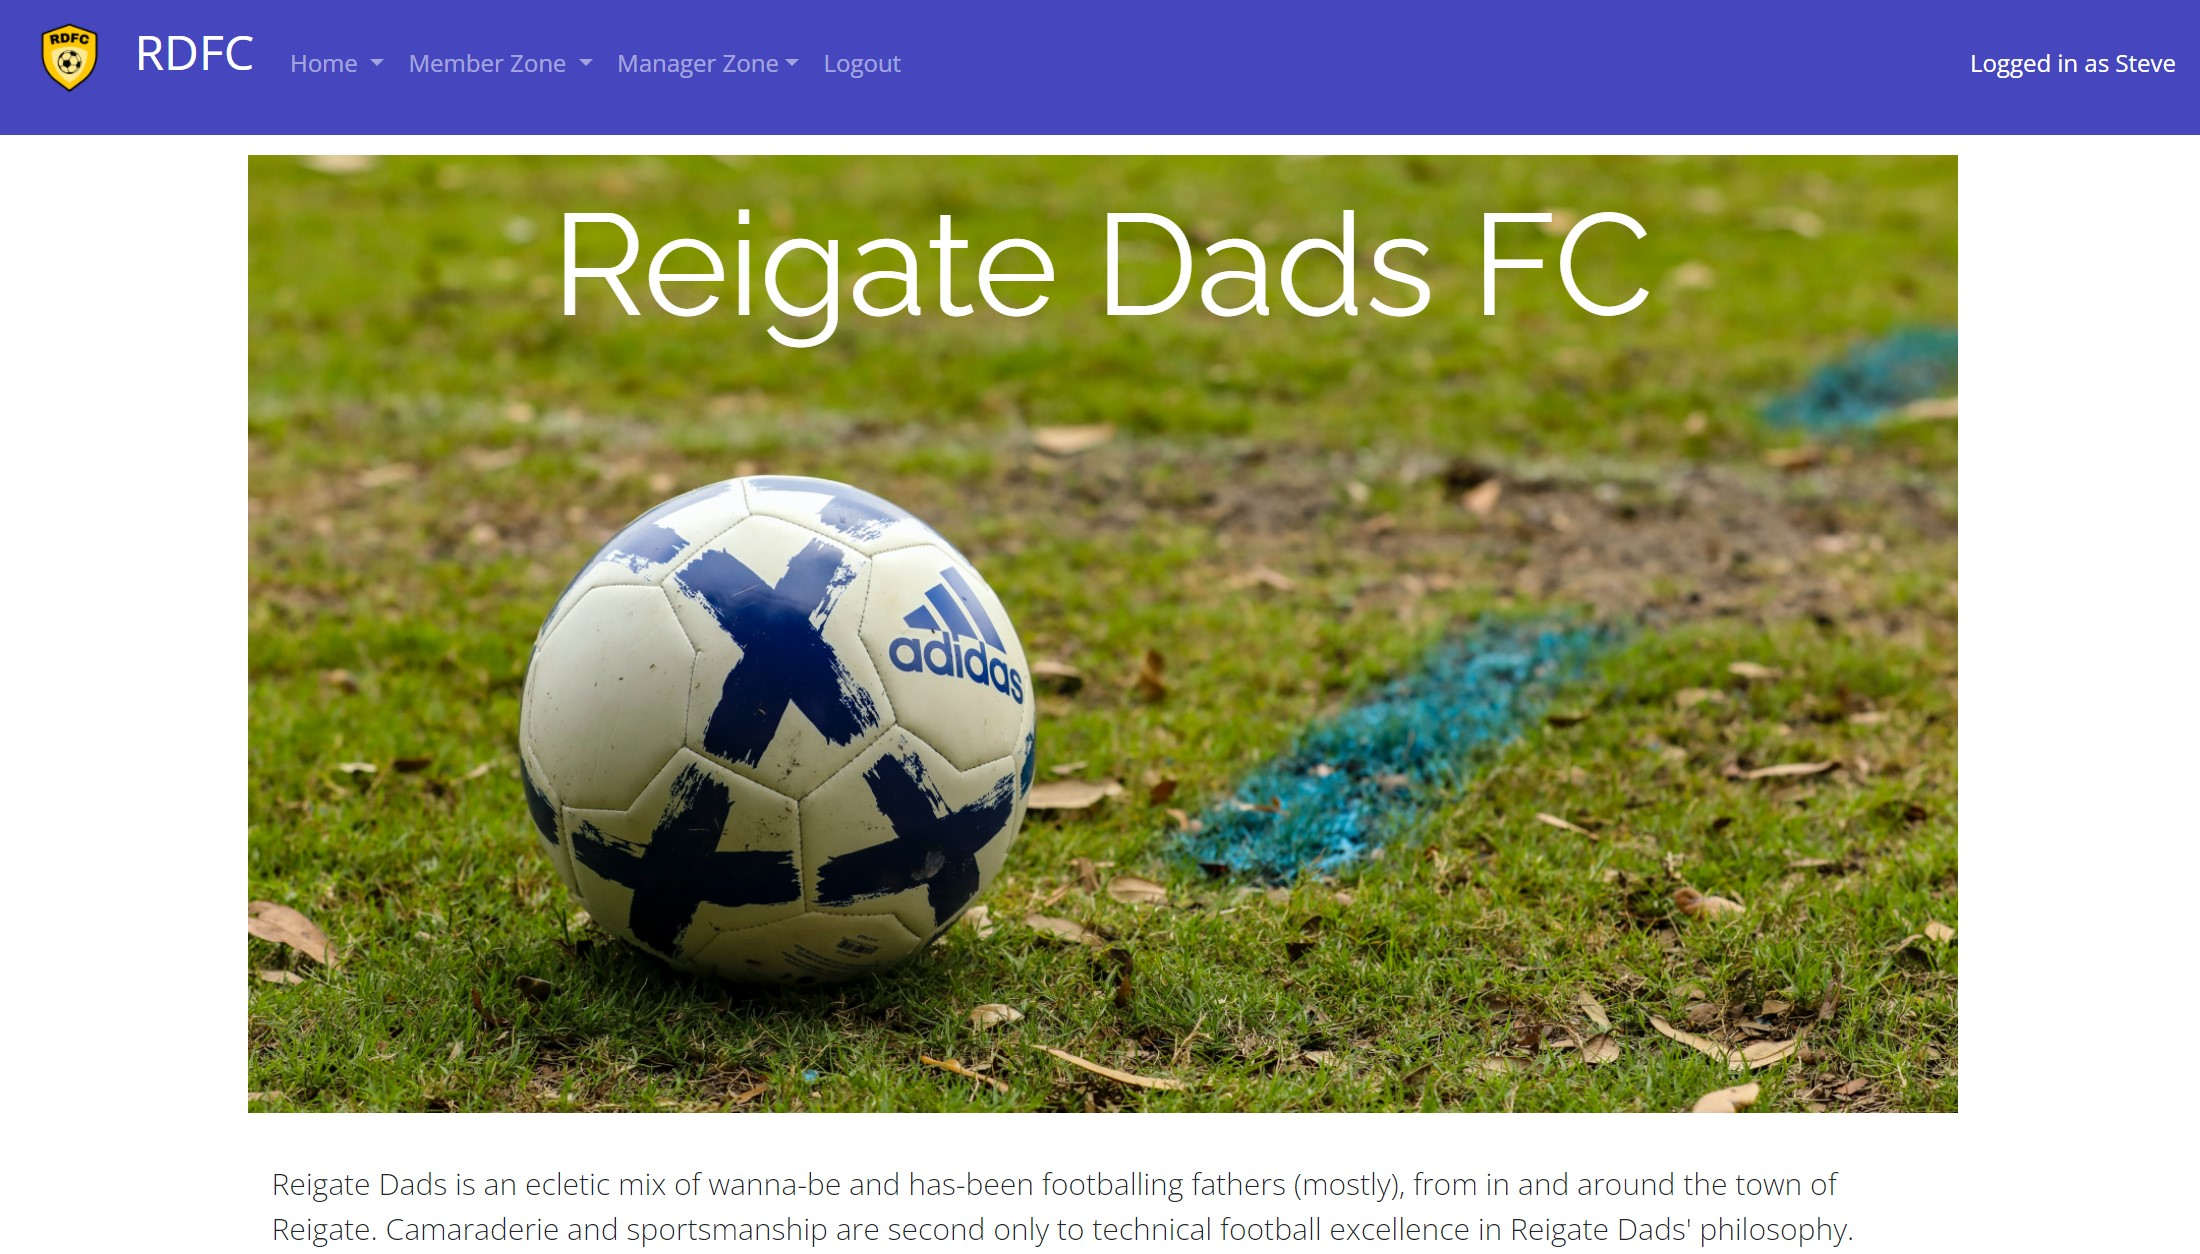
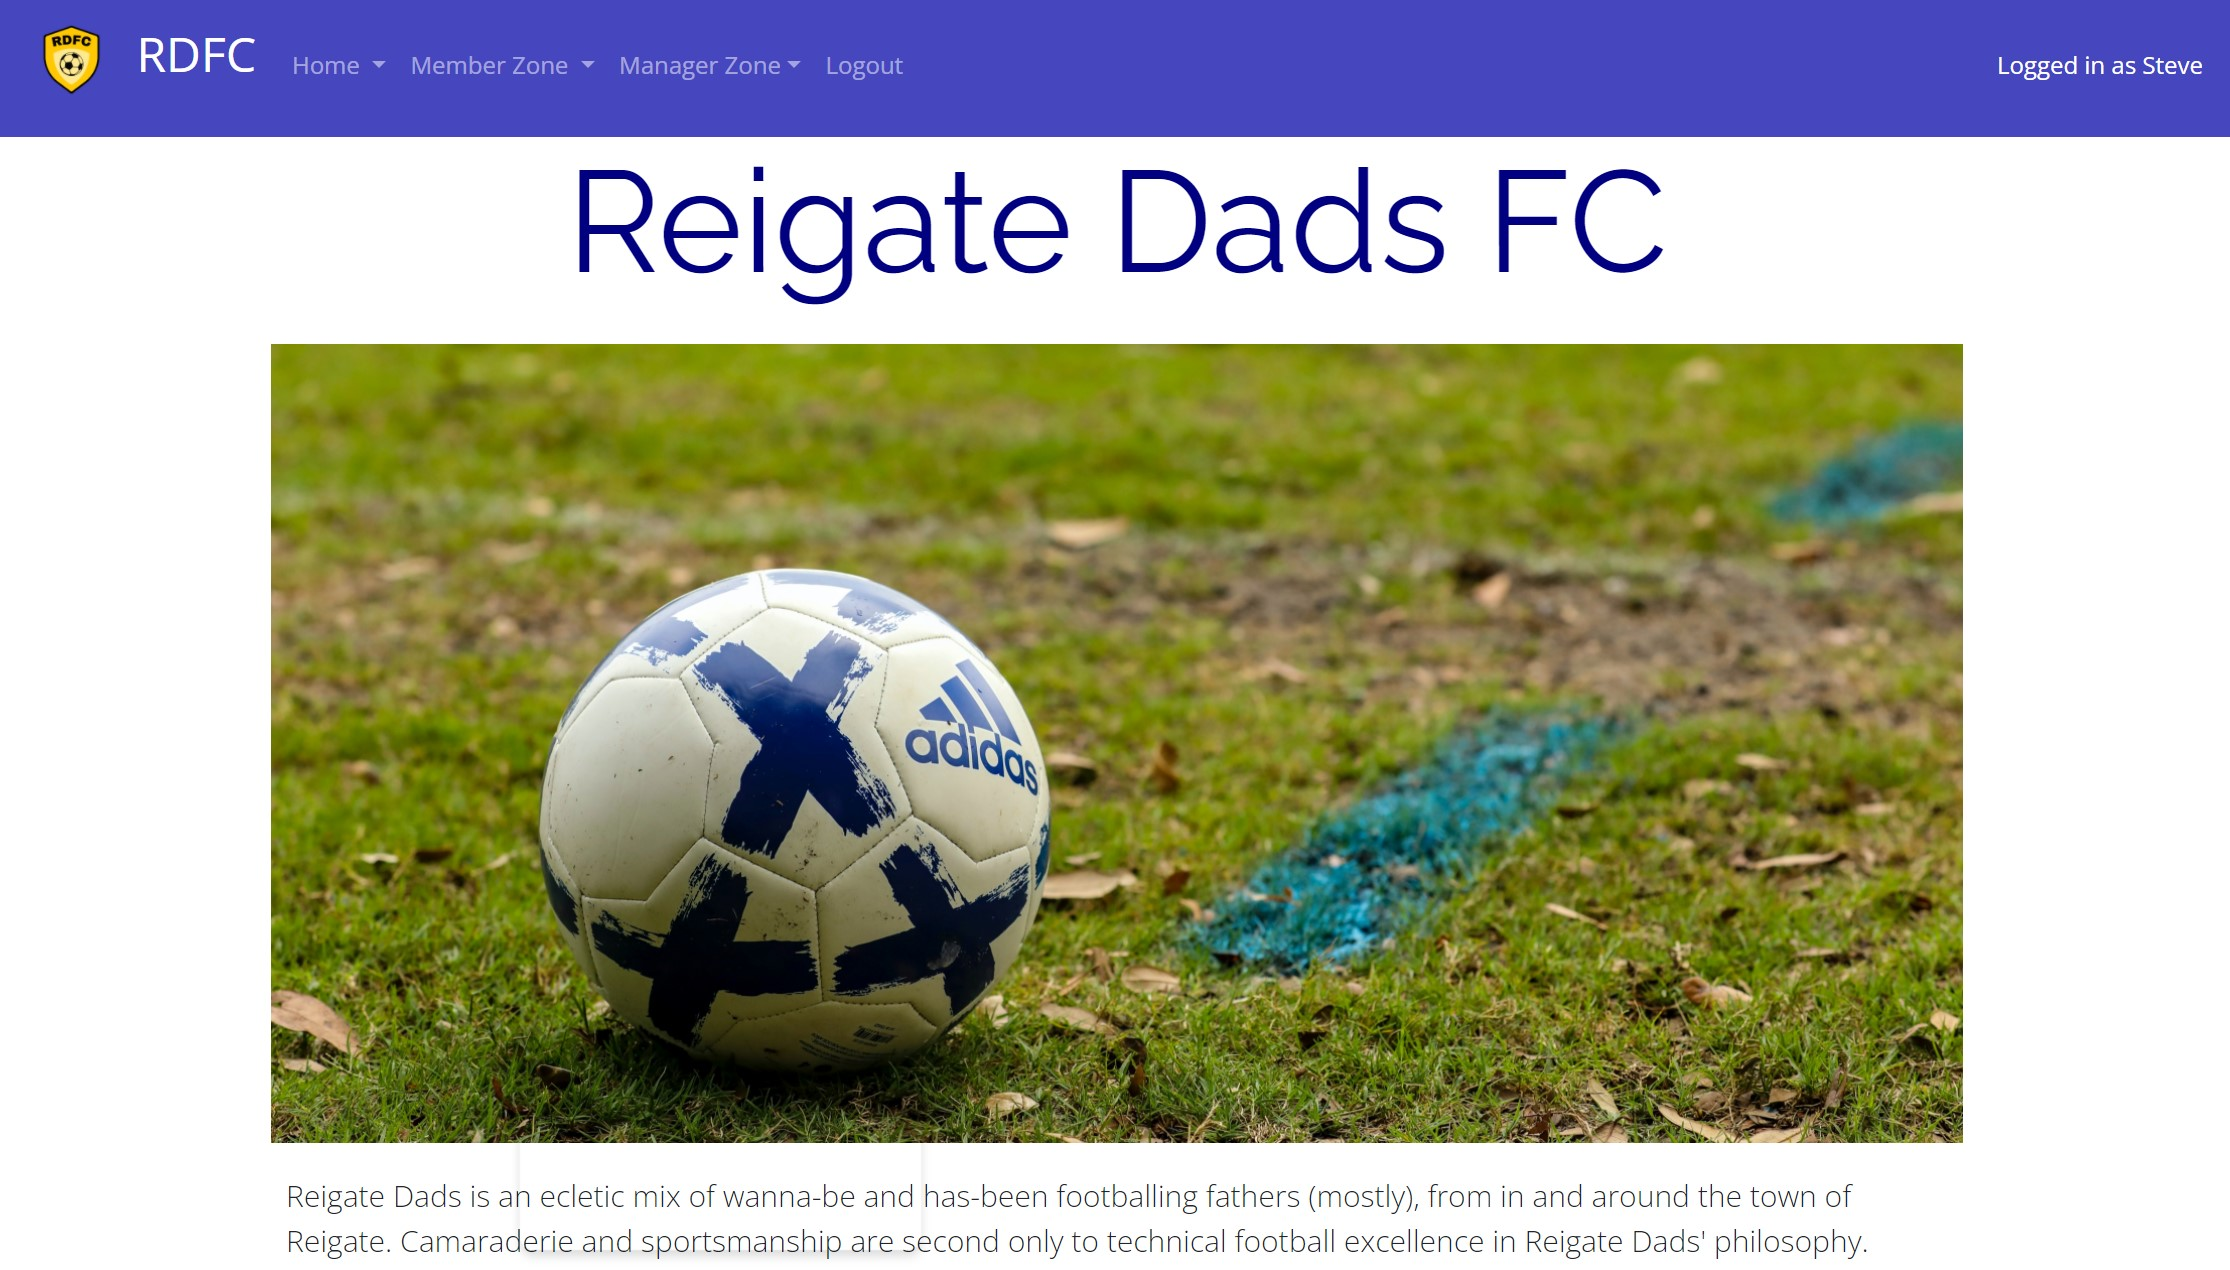
format main heading and image. update screenshots in README.

diff --git a/club/templates/club/index.html b/club/templates/club/index.html
@@ -12,13 +12,14 @@ Home
 {% endblock %}
 
 {% block content %}
-<div class="container-fluid mb-md-3 mt-md-2">
+<div class="container-fluid mb-md-3">
+    <h1 class="display-1 text-center font-weight-normal" id="main-heading">Reigate Dads FC</h1>
     <div id="main-img-container" class="container mt-md-4 mx-auto">
-        <img src="{% static 'club/images/football.jpg' %}" class="mobile-hide mx-auto" alt="football on a playing field" id="main-img">
-        <img src="{% static 'club/images/football-cropped.jpg' %}" class="mobile-only" alt="football on a playing field" id="main-cropped">        
-        <h1 class="display-1 text-center font-weight-normal text-white pt-3" id="main-heading">Reigate Dads FC</h1>
+        <img src="{% static 'club/images/football1.jpg' %}" class="mobile-hide mx-auto" alt="football on a playing field" id="main-img">
+        <img src="{% static 'club/images/football-cropped1.jpg' %}" class="mobile-only" alt="football on a playing field" id="main-cropped">        
+
     </div>
-    <div class="container mt-md-3 p-3" id="club-intro-text">
+    <div class="container mt-md-1 p-3" id="club-intro-text">
         <p class="lead">Reigate Dads is an ecletic mix of wanna-be and has-been footballing fathers (mostly), from in and around the town of Reigate. Camaraderie and sportsmanship are second only to technical football excellence in Reigate Dads' philosophy. </p>
         <p class="homepage-text">Inaugurated in September 2016, Reigate Dads play on Thursday evenings at the five-a-side astro-turf stadium at South Park Football Club, Whitehall Lane, RH2 8LG. Reigate Dads play against each other within a league, whose triannual season culminates in the award of a highly prized crystal trophy, often referred to as 'The Perspex Block'. The cornerstone of the competition is 'The Algorithm', a sophisticated function that optimises weekly team selection balance, based on a swathe of player statistics.</p>
     </div>   

diff --git a/templates/base.html b/templates/base.html
@@ -7,7 +7,7 @@
   <meta http-equiv="X-UA-Compatible" content="IE=edge">
   <meta name="viewport" content="width=device-width, initial-scale=1.0">
   <link rel="stylesheet" href="https://stackpath.bootstrapcdn.com/bootstrap/4.1.3/css/bootstrap.min.css" integrity="sha384-MCw98/SFnGE8fJT3GXwEOngsV7Zt27NXFoaoApmYm81iuXoPkFOJwJ8ERdknLPMO" crossorigin="anonymous">
-  <link rel="stylesheet" href="{% static 'base.css' %}">
+  <link rel="stylesheet" href="{% static 'club/css/base.css' %}">
   <link rel="apple-touch-icon" sizes="180x180" href="{% static 'images/apple-touch-icon.png' %}">
   <link rel="icon" type="image/png" sizes="32x32" href="{% static 'images/favicon-32x32.png' %}">
   <link rel="icon" type="image/png" sizes="16x16" href="{% static 'images/favicon-16x16.png' %}">
@@ -21,7 +21,7 @@
 </head>
 <body>
   <nav class="navbar sticky-top navbar-expand-lg navbar-dark">
-    <h2 id="navbar-logo" class="pr-3"><img src="{% static 'images/RDFC-logo.png' %}" id="logo-img"> RDFC </h2>
+    <h2 id="navbar-logo" class="pr-3"><img src="{% static 'images/RDFC-logo.png' %}" id="logo-img" alt="club logo"> RDFC </h2>
     <button class="navbar-toggler" type="button" data-toggle="collapse" data-target="#navbarSupportedContent" aria-controls="navbarSupportedContent" aria-expanded="false" aria-label="Toggle navigation">
       <span class="navbar-toggler-icon"></span>
     </button>      

diff --git a/club/static/club/css/index.css b/club/static/club/css/index.css
@@ -6,9 +6,7 @@
 }
 
 #main-img {
-    width: 80vw;
-    position: relative;
-    z-index: -1;
+    width: 75vw;
 }
 
 #main-cropped{
@@ -17,9 +15,7 @@
 
 #main-heading {
     font-family: 'Raleway', sans-serif;
-    position: absolute;
-    top: 10rem;
-    z-index: 1;
+    color: navy;
 }
 
 .homepage-text {
@@ -48,8 +44,7 @@ div #map {
 @media screen and (max-width: 600px) {
     
     #main-heading {
-        font-size: 70px;
-        top: 7rem;
+        font-size: 60px;
     }
 
     #main-cropped {

diff --git a/reigate_dads/settings.py b/reigate_dads/settings.py
@@ -30,7 +30,7 @@ SECRET_KEY = os.environ.get('SECRET_KEY')
 
 
 # SECURITY WARNING: don't run with debug turned on in production!
-DEBUG = True
+DEBUG = False
 
 ALLOWED_HOSTS = ["reigate-dads.herokuapp.com", "localhost"]
 

diff --git a/README.md b/README.md
@@ -128,6 +128,7 @@ When setting up the project I customised the admin display, filter and search fi
 ## User Authentication
 Django Allauth was installed to enable users to sign up, log in and log out.  I customised the standard Allauth model  
 so that users also need to enter their first and last name when signing up.  I copied the Allauth templates into a separate folder and used my own base.html file to extend them.  I also created a custom container for them so that they took up all the space on the screen that was not occupied by the header or footer.
+
 ![Sign Up Form](https://github.com/BelT26/RDFC/blob/main/club/static/club/screenshots/signup.jpg)
 
 ## Messages
@@ -138,18 +139,22 @@ I created a responsive navbar that collapses on mobile devices using Bootstrap c
 
 ### General User Access
 Visitors to the site can view general information about the club.  They also have the option of signing up to the club or logging in if they are a member.
+
 ![Site User Navbar](https://github.com/BelT26/RDFC/blob/main/club/static/club/screenshots/navbar-user.jpg)
 
 ### Member Access
 Once a user has logged in, their logged in status is displayed on the right of the navbar. Logged in users have access to the member zone in which they can book a place in the next match, view details of the next fixture, view past results and view the player league table. The signup option disappears and the login option is replaced with a logout option.
+
 ![Member Navbar](https://github.com/BelT26/RDFC/blob/main/club/static/club/screenshots/navbar-member.jpg)
 
 ### Manager Access
 As well as all of the member facilities, the manager has access to a dropdown management menu.  This offers options for him to add a new match fixture, update details of the existing matches and approve and remove members.
+
 ![Manager Navbar](https://github.com/BelT26/RDFC/blob/main/club/static/club/screenshots/navbar-manager.jpg)
 
 ## Footer
 The footer contains social media links to Facebook, Twitter and Instagram. The icons change from white to gold when the user hovers over them to indicate to the user that they are links. The club manager has not yet set up accounts with these sites so the links currently take the user to the home page. These links will be updated once the club's accounts have been created.
+
 ![Footer](https://github.com/BelT26/RDFC/blob/main/club/static/club/screenshots/footer.jpg)
 
 ## Home Page
@@ -157,16 +162,19 @@ The home page is split into three sections, accessible by a dropdown menu, a gen
 
 ### About
 The text provides a lighthearted introduction to the club for potential new members and was provided by Steve, the club manager. The main image is replaced with a cropped version on mobile devices.
+
 ![Club Intro](https://github.com/BelT26/RDFC/blob/main/club/static/club/screenshots/homepage.jpg)
 
 ### Social
 This section lets potential members know that the players like to socialialise together after the game. Eventually it will be moved to its own page and the manager will be able to add details of upcoming events.
+
 ![Social](https://github.com/BelT26/RDFC/blob/main/club/static/club/screenshots/social.jpg)
 
 ### Contact
 I used the Bootstrap Resume walkthrough project as a guide to creating the JavaScript code to link to the Google Maps API.  At the moment only one location is marked as the club both play and socialise at the South Park grounds.  I decided to still use marker clusters as the club manager mentioned to me that he may like to add other venues to the map in the future.
 
 The contact details allow the users to get in touch with any queries. The email address opens up a link to the user's email account with a prepopulated 'to' field.
+
 ![Contact](https://github.com/BelT26/RDFC/blob/main/club/static/club/screenshots/map.jpg)
 
 ## Member Zone
@@ -190,7 +198,6 @@ To enable the member to locate their place in the table more easily a highlighte
 The past results page shows the scores of any previous matches so that members can find out about any games they missed.  The members of each teams are also listed on larger devices but not on mobiles.
 
 ![Results Table](https://github.com/BelT26/RDFC/blob/main/club/static/club/screenshots/results.jpg)
-![Results Table - Mobiles](https://github.com/BelT26/RDFC/blob/main/club/static/club/screenshots/results_mobile.jpg)
 
 ### Match Booking Form
 If match registrations are open a booking form is displayed. Otherwise users see a message informing them that registrations are currently closed. In the booking form users can see the date of the match.  
@@ -261,11 +268,10 @@ On the league table only the player, played and points columns appear and on the
 
 The club manager informed me that he intended to carry out the club admin on a laptop but may occasionally need to open the match registrations, allocate teams or add scores on a mobile device so these were the match admin fields chosen to be displayed on small screens.
 
-![Match Admin - Mobiles](https://github.com/BelT26/RDFC/blob/main/club/static/club/screenshots/match_admin_mobile.jpg)
+![Mobile Views](https://github.com/BelT26/RDFC/blob/main/club/static/club/screenshots/mobile-views.jpg)
 
 For the member admin page he felt the most important fields were the approve and reject buttons for pending applications and the email address for current members so the other columns were hidden.
 
-![Match Admin - Mobiles](https://github.com/BelT26/RDFC/blob/main/club/static/club/screenshots/member_admin_mobile.jpg)
 
 ## Bugs and Challenges
 Issues when testing deployment mid project were resolved with the help of Alan at tutor support who identified that my requirements.txt did not contain all of my dependencies.  Solved by freezing the requirements.txt file again.
@@ -284,6 +290,7 @@ The styling in the base.css file was not being applied in the deployed version a
 
 ### 404 Page
 I created a custom 404 page with a link to the home page to handle incorrect addresses 
+
 ![404 Page]()
 
 ## Testing
